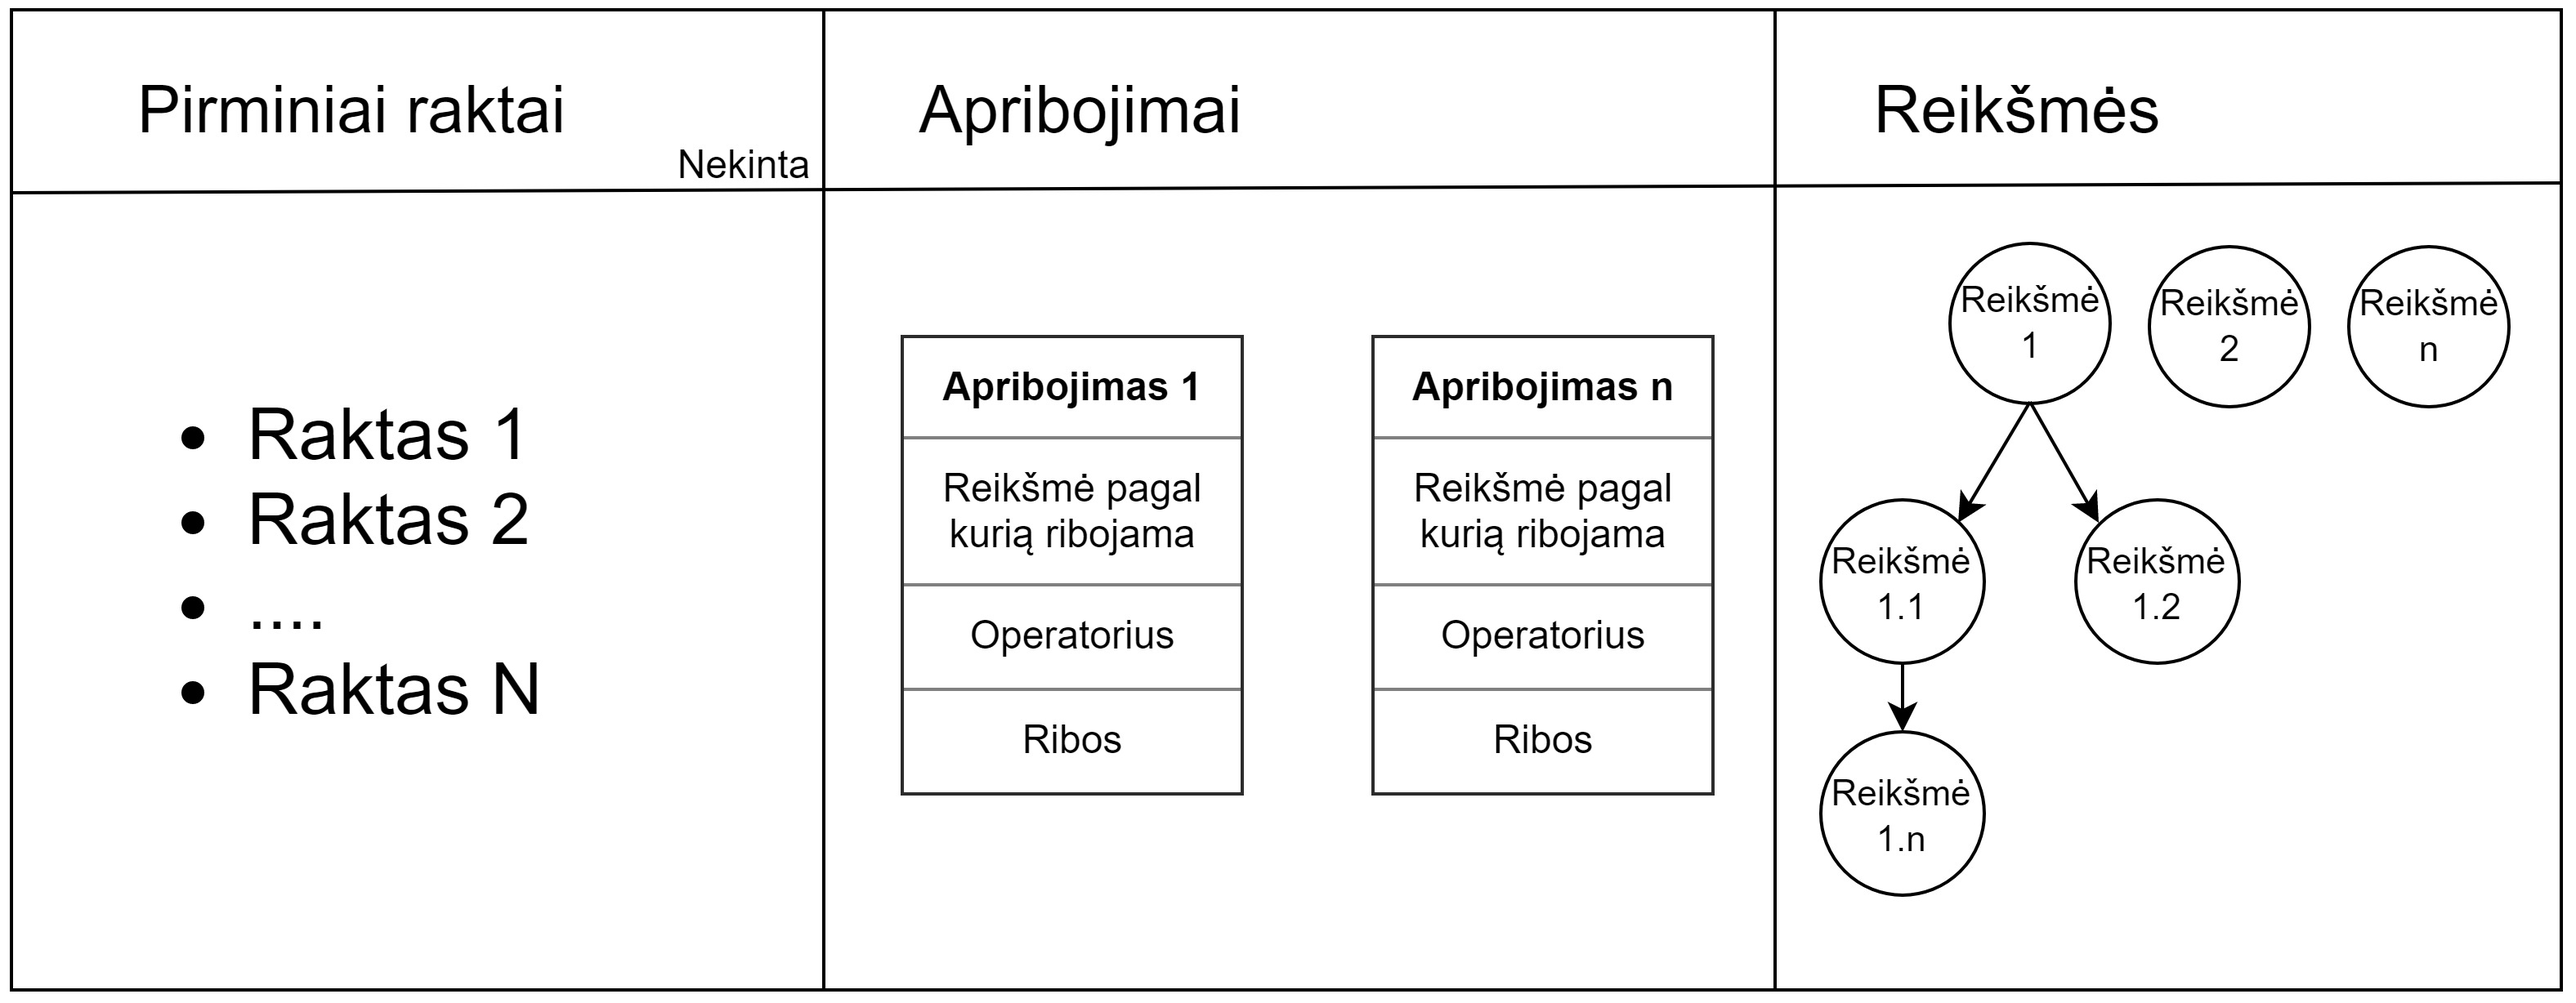
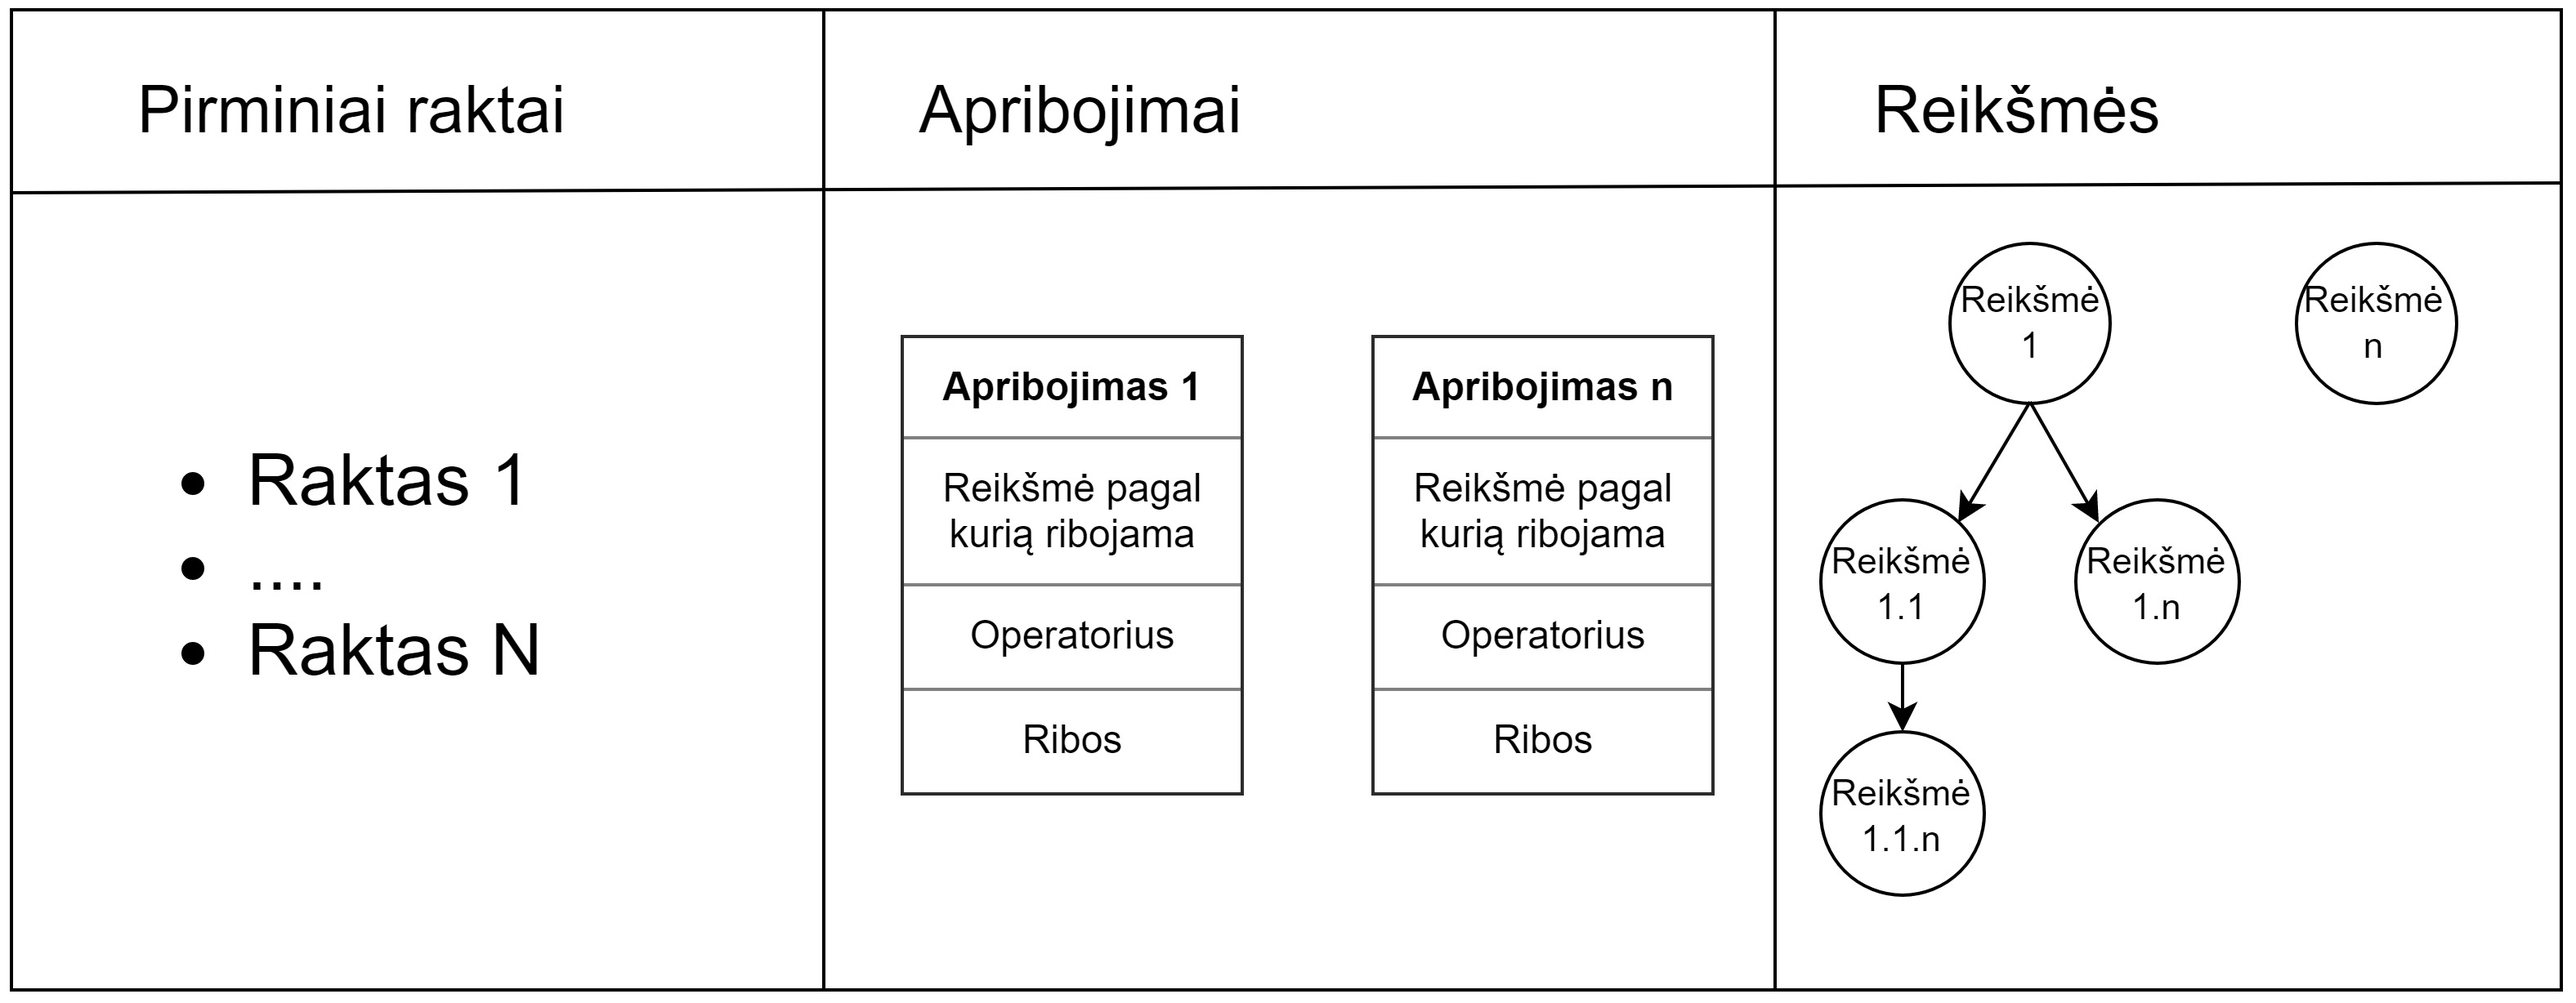
Added indicator and description

diff --git a/Bakalauras/bakalaurinis.tex b/Bakalauras/bakalaurinis.tex
@@ -12,6 +12,7 @@
 \usepackage{listings}
 \usepackage{subfig}
 \usepackage{wrapfig}
+\usepackage{tikz}
 
 \usepackage{enumitem}
 \setitemize{noitemsep,topsep=0pt,parsep=0pt,partopsep=0pt}
@@ -87,8 +88,8 @@ Uždaviniai:
 
 \section{Rodiklių duomenys}
 
-Rodiklių duomenys - tai duomenis, kurie apibrėžia bet kokius gyvenimiškus duomenis, kuriuos galime grupuoti pagal tam tikrus raktinius elementus. Rodiklį sudaro pirminis raktas arba raktų rinkinys ir reikšmių sąrašas, kurį galime grupuoti pagal apibrėžtus raktus.      
-
+Rodiklių duomenys - tai duomenis, kurie apibrėžia bet kokius duomenis, kuriuos galime grupuoti pagal tam kitus elementus. Rodiklį sudaro pirminis raktas, kuris susideda iš vieno arba daug duomenų ir reikšmių sąrašas, kurį galime grupuoti pagal apibrėžtą raktą.      
+Rodiklių duomenų gali būti daug todėl reikia bendro modelio, kuris gali apibrėžti visus įmanomus rodiklius. 
 \subsection{Rodiklių duomenų modelis}
 
 Darbo tikslui išpildyti buvo sukurtas modelis, kurio pagalba galime apibrėžti rodiklį. Pagal šį apibrėžimą bus generuojama srautinio apdorojimo architektūra.
@@ -100,8 +101,48 @@ Darbo tikslui išpildyti buvo sukurtas modelis, kurio pagalba galime apibrėžti
     \label{img:rodiklis}
 \end{figure}
 
+Šiame darbe šis rodiklis bus užrašomas skaidant į dvi dalis: \\
+Raktas ir apribojimai:
+\[ [\text{Raktas 1, Raktas N}]
+    \>\> ; \>\>  
+    \begin{array}{|c|c|}
+        \hline
+        \text{Apribojimas 1} & \text{Apribojimas N} \\ 
+        \hline
+        \text{Reikšmė 1} & \text{Reikšmė N} \\ 
+        \text{Operatorius 1} & \text{Operatorius N} \\
+        \text{Riba 1} & \text{Riba N} \\
+        \hline 
+   \end{array}
+\]
+Reikšmės: \\
+\[
+    \begin{tikzpicture}[sibling distance=7em,
+        every node/.style = {shape=rectangle, rounded corners,
+                             draw, align=center,
+                             top color=white, bottom color=white}]
+        \node {Reikšmė 1}
+                child { node {Reikšmė 1.1} 
+                    child { node { Reikšmė 1.1.n} } }
+                child { node {Reikšmė 1.n} } ;
+    \end{tikzpicture} 
+    \>\>\>\>\>\>\>\>
+    \begin{tikzpicture}[sibling distance=10em,
+        every node/.style = {shape=rectangle, rounded corners,
+            draw, align=center,
+            top color=white, bottom color=white}]]
+        \node {Reikšmė n} ;
+    \end{tikzpicture}  
+\]
+\section{Rodiklių duomenų pokyčiai}
 
-\subsection{Rodiklių duomenų struktūros pokyčiai}
+Kadangi einant laiku duomenis gali keistis ir atitinkamai gali keistis ir rodiklių duomenų tipas, kuriuos reikia surinkti. Pavyzdžiui, jei atsiranda naujas įstatymas, kuris fiksuoja, kad žmogaus pajamos susidaro ne tik iš gaunamo atlygimo ir premijų, bet ir iš loterijose laimėtų pinigų. Mūsų rodiklis, turėtų atsinaujinti atitinkamai:
+
+
+
+\subsection{Pirminis raktas}
+
+
 
 \section{Medžiagos darbo tema dėstymo skyriai}
 Medžiagos darbo tema dėstymo skyriuose išsamiai pateikiamos nagrinėjamos temos
